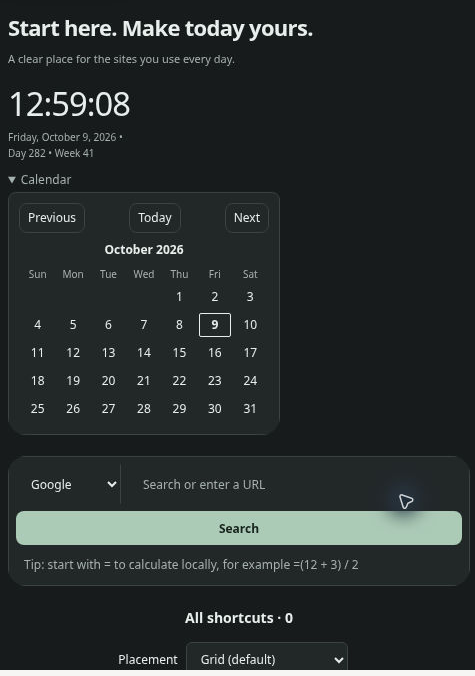
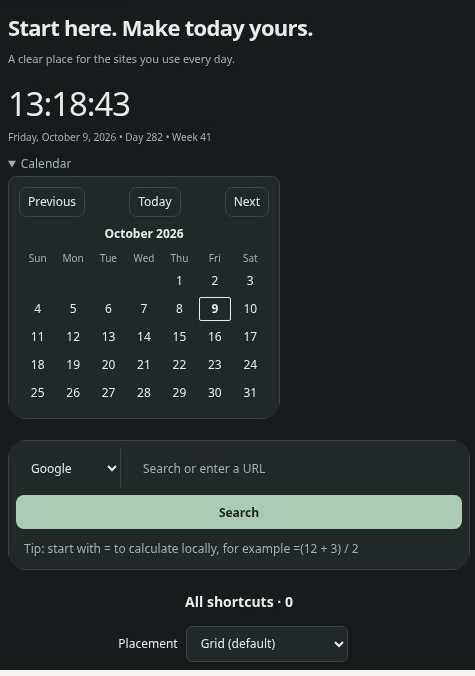
fix(clock): localize date order and expand narrow calendar dates

diff --git a/tests/localized-date-display.test.js b/tests/localized-date-display.test.js
@@ -1,0 +1,87 @@
+const test = require('node:test');
+const assert = require('node:assert/strict');
+const fs = require('node:fs');
+const vm = require('node:vm');
+const { createDocument } = require('./helpers/task-dom-model');
+const source = fs.readFileSync('newtab.js', 'utf8');
+const helper = fs.readFileSync('i18n.js', 'utf8');
+const catalogs = Object.fromEntries(['en', 'zh_CN'].map(locale => [locale,
+    JSON.parse(fs.readFileSync(`_locales/${locale}/messages.json`, 'utf8'))]));
+
+// Load the actual helper and emulate Chrome's positional $1 substitutions.
+function clock(locale, { loadHelper = true, messageMode = 'catalog' } = {}) {
+    const calls = [];
+    const context = {
+        document: createDocument(), window: { addEventListener() {} },
+        navigator: { language: 'en-US' }, console,
+        chrome: { i18n: {
+            getUILanguage: () => locale === 'zh_CN' ? 'en-US' : 'en-GB',
+            getMessage(key, substitutions = []) {
+                calls.push([key, Array.from(substitutions)]);
+                if (messageMode === 'empty') return '';
+                if (messageMode === 'echo') return key;
+                if (messageMode === 'throw') throw new Error('Unavailable');
+                if (key === '@@ui_locale') return 'en_US';
+                return (catalogs[locale]?.[key]?.message || '').replace(/\$(\d+)/g,
+                    (_, number) => substitutions[Number(number) - 1] ?? '');
+            }
+        } }
+    };
+    vm.createContext(context);
+    if (loadHelper) {
+        vm.runInContext(helper, context);
+        context.i18n = context.window.i18n;
+    }
+    vm.runInContext(source + '\nthis.ClockComponent = ClockComponent;', context);
+    return { component: new context.ClockComponent({ hour12: false, showSeconds: true }), calls };
+}
+
+test('shipped catalogs render exact complete CN and EN dates with string substitutions', () => {
+    for (const [locale, expected] of [
+        ['zh_CN', '2026年10月9日星期五 • 第282天 • 第41周'],
+        ['en', 'Friday, October 9, 2026 • Day 282 • Week 41']
+    ]) {
+        const { component, calls } = clock(locale);
+        assert.equal(component.formatDate(new Date(2026, 9, 9, 12)), expected);
+        assert.deepEqual(calls.filter(([key]) => ['dayOfYear', 'weekNumber'].includes(key)),
+            [['dayOfYear', ['282']], ['weekNumber', ['41']]]);
+    }
+});
+
+test('missing helper retains complete English counter fallbacks with the catalog date', () => {
+    const { component } = clock('zh_CN', { loadHelper: false });
+    assert.equal(component.formatDate(new Date(2026, 9, 9, 12)),
+        '2026年10月9日星期五 • Day 282 • Week 41');
+});
+
+test('empty, key-echo and unavailable messages use complete fallbacks and natural GB order', () => {
+    for (const messageMode of ['empty', 'echo', 'throw']) {
+        const { component } = clock('en', { messageMode });
+        assert.equal(component.formatDate(new Date(2026, 9, 9, 12)),
+            'Friday, 9 October 2026 • Day 282 • Week 41');
+    }
+});
+
+test('localized counters retain leap-day and ISO year-boundary facts without mutation', () => {
+    const cases = [
+        [2024, 2, 29, 60, 9], [2024, 12, 31, 366, 1],
+        [2021, 1, 1, 1, 53], [2026, 1, 1, 1, 1], [2026, 12, 31, 365, 53]
+    ];
+    for (const locale of ['en', 'zh_CN']) {
+        const { component } = clock(locale);
+        const config = { ...component.config };
+        for (const [year, month, day, ordinal, week] of cases) {
+            const date = new Date(year, month - 1, day, 12);
+            const stamp = date.getTime();
+            const dateText = date.toLocaleDateString(locale === 'en' ? 'en' : 'zh-CN', {
+                weekday: 'long', year: 'numeric', month: 'long', day: 'numeric'
+            });
+            const counters = locale === 'en' ? `Day ${ordinal} • Week ${week}` : `第${ordinal}天 • 第${week}周`;
+            const expected = `${dateText} • ${counters}`;
+            assert.equal(component.formatDate(date), expected);
+            assert.equal(component.formatDate(date), expected);
+            assert.equal(date.getTime(), stamp);
+            assert.deepEqual(component.config, config);
+        }
+    }
+});

diff --git a/tests/locale-defaults.test.js b/tests/locale-defaults.test.js
@@ -37,7 +37,7 @@ test('extension message locale wins when native browser UI and content locales d
     }, 'en-US');
     assert.equal(component.getDateLocale(), 'zh-CN');
     const date = new Date(2026, 9, 9, 12);
-    assert.ok(component.formatDate(date).startsWith(`${date.toLocaleDateString('zh-CN', { weekday: 'long' })}, ${date.toLocaleDateString('zh-CN', { month: 'long' })}`));
+    assert.ok(component.formatDate(date).startsWith(date.toLocaleDateString('zh-CN', { weekday: 'long', year: 'numeric', month: 'long', day: 'numeric' })));
     for (const getMessage of [() => '', () => '@@ui_locale', () => null, () => 'invalid_locale_tag_!', () => { throw new Error('unavailable'); }]) {
         assert.equal(clock({ getMessage, getUILanguage: () => 'en-GB' }).getDateLocale(), 'en-GB');
     }
@@ -52,7 +52,7 @@ test('explicit catalog locale aligns dates when both native locale indicators re
         }, 'en-US');
         assert.equal(component.getDateLocale(), expected);
         const date = new Date(2026, 9, 9, 12);
-        assert.ok(component.formatDate(date).startsWith(`${date.toLocaleDateString(expected, { weekday: 'long' })}, ${date.toLocaleDateString(expected, { month: 'long' })}`));
+        assert.ok(component.formatDate(date).startsWith(date.toLocaleDateString(expected, { weekday: 'long', year: 'numeric', month: 'long', day: 'numeric' })));
     }
     for (const value of ['', 'dateFormattingLocale', null, 'bad_locale', 42]) {
         assert.equal(clock({ getMessage: key => key === 'dateFormattingLocale' ? value : 'zh_CN', getUILanguage: () => 'en-US' }).getDateLocale(), 'zh-CN');
@@ -64,7 +64,7 @@ test('calendar calculations, repeated date display and clock options stay stable
     const en = clock({ getUILanguage: () => 'en-US' });
     for (const date of [new Date(2026, 9, 9, 12), new Date(2024, 1, 29, 12), new Date(2026, 0, 1, 12), new Date(2026, 11, 31, 12)]) {
         const stamp = date.getTime();
-        const expected = `${date.toLocaleDateString('zh-CN', { weekday: 'long' })}, ${date.toLocaleDateString('zh-CN', { month: 'long' })} ${date.getDate()}, ${date.getFullYear()} • Day ${en.getDayOfYear(date)} • Week ${en.getWeekNumber(date)}`;
+        const expected = `${date.toLocaleDateString('zh-CN', { weekday: 'long', year: 'numeric', month: 'long', day: 'numeric' })} • Day ${en.getDayOfYear(date)} • Week ${en.getWeekNumber(date)}`;
         assert.equal(cn.formatDate(date), expected);
         assert.equal(cn.formatDate(date), expected);
         assert.equal(date.getTime(), stamp);

diff --git a/newtab.js b/newtab.js
@@ -1529,18 +1529,15 @@ class ClockComponent {
      * @returns {string} - Formatted date string
      */
     formatDate(date) {
-        const locale = this.getDateLocale();
-        const dayOfWeek = date.toLocaleDateString(locale, { weekday: 'long' });
-        const month = date.toLocaleDateString(locale, { month: 'long' });
-        const day = date.getDate();
-        const year = date.getFullYear();
-
+        const fullDate = date.toLocaleDateString(this.getDateLocale(), {
+            weekday: 'long', year: 'numeric', month: 'long', day: 'numeric'
+        });
         const dayOfYear = this.getDayOfYear(date);
         const weekNumber = this.getWeekNumber(date);
 
-        const dayLabel = (window.i18n && i18n.t('dayOfYear')) || 'Day';
-        const weekLabel = (window.i18n && i18n.t('weekNumber')) || 'Week';
-        return `${dayOfWeek}, ${month} ${day}, ${year} • ${dayLabel} ${dayOfYear} • ${weekLabel} ${weekNumber}`;
+        const dayLabel = this.worldClockText('dayOfYear', `Day ${dayOfYear}`, [String(dayOfYear)]);
+        const weekLabel = this.worldClockText('weekNumber', `Week ${weekNumber}`, [String(weekNumber)]);
+        return `${fullDate} • ${dayLabel} • ${weekLabel}`;
     }
 
     /**

diff --git a/tests/month-calendar-integration.test.js b/tests/month-calendar-integration.test.js
@@ -150,6 +150,16 @@ test('runtime inventory/script order and narrow open-only layout are explicit', 
     assert.match(css, /\.month-calendar\[open\] \{ width: 17rem;/); assert.match(css, /aria-current="date".*outline:/);
 });
 
+test('expanded narrow calendar lets the date use its own row without changing collapsed geometry', () => {
+    const css = read('local-month-calendar.css');
+    const [base, narrow] = css.split('@media (max-width: 600px) {');
+    assert(narrow, 'expanded responsive rules exist');
+    assert.doesNotMatch(base, /\.date-display\s*\{/);
+    assert.match(narrow, /:root\[data-dashboard-template\] #dashboard \.dashboard-header:has\(\.month-calendar\[open\]\) \.date-display \{ max-width: 100%; \}/);
+    assert.equal((css.match(/\.date-display\s*\{/g) || []).length, 1);
+    assert.match(read('dashboard-templates.css'), /\.date-display \{ font-size: 10px; max-width: 135px; \}/);
+});
+
 test('detached host does not navigate, render or announce', () => {
     const h = model(); h.open(); const { clock, view } = h;
     const rows = view.body.children, caption = view.caption.textContent, month = clock.calendarMonth;

diff --git a/local-month-calendar.css b/local-month-calendar.css
@@ -20,5 +20,6 @@
   :root[data-dashboard-template] #dashboard .dashboard-header:has(.month-calendar[open]) .template-intro { grid-column: 1; grid-row: 2; }
   :root[data-dashboard-template] #dashboard .dashboard-header:has(.month-calendar[open]) #clock-container { grid-column: 1; grid-row: 3; justify-self: start; text-align: start; }
   :root[data-dashboard-template] #dashboard .dashboard-header:has(.month-calendar[open]) .clock-display { align-items: flex-start; }
+  :root[data-dashboard-template] #dashboard .dashboard-header:has(.month-calendar[open]) .date-display { max-width: 100%; }
   :root[data-dashboard-template] #dashboard .month-calendar[open] > summary { margin-inline-start: 0; }
 }

diff --git a/docs/localized-date-validation.md b/docs/localized-date-validation.md
@@ -1,0 +1,46 @@
+# Localized clock date validation
+
+The main date line now formats its complete date with the existing catalog-first locale selection and uses the existing day/week keys as complete substituted messages. Day and ISO week calculations, clock time, quote placeholders, configuration and storage are unchanged.
+
+Verified exact output for 9 October 2026:
+- Chinese: `2026年10月9日星期五 • 第282天 • 第41周`
+- Shipped English catalog: `Friday, October 9, 2026 • Day 282 • Week 41`
+
+The regression harness loads the actual `i18n.js` and locale catalogs, emulates Chrome positional message substitution, and verifies string substitutions. It covers absent helpers, empty/key-echo/throwing message APIs, leap day, ISO year boundaries, repeated calls, input-date immutability and unchanged configuration. Existing locale-priority, clock-time, quote/storage and four-time-zone calendar tests also pass. When the catalog is unavailable and the UI locale is en-GB, native date ordering is intentionally `Friday, 9 October 2026`; no artificial US-order preservation branch is needed.
+
+Validation on the isolated current-source snapshot:
+- Initial isolated `node --test tests/*.test.js`: 495 passed, zero failures/skips
+- `python3 -m unittest discover -s tests -p '*_test.py'`: 19 passed
+- `node --check` for root, shared, test/helper and asset JavaScript: passed
+- Manifest and all locale JSON parsing: passed
+- Patch whitespace and exact apply/reconstruction checks: passed
+
+## Narrow expanded-calendar follow-up
+
+The first native Chinese narrow test found a dangling `第` at a line boundary:
+the expanded calendar had moved the clock to its own row, but the date retained
+the old 135px cap. One rule now allows `max-width: 100%` only inside the existing
+≤600px, open-calendar header selector. Collapsed and wide rules, date text and
+DOM remain unchanged. The original template cap remains in place for other
+states. A source regression locks down this scope. Integrated verification:
+496 Node tests and 19 Python packaging tests passed.
+
+## Native acceptance — 2026-10-09
+
+Normal-sandbox Chrome for Testing 155.0.8059.39 on cloud Linux verified the exact
+Chinese and English strings above through the real Chrome message API. No
+literal `$1` appeared. The Chinese month calendar remained Monday-first and
+highlighted day 9. At an actual 514-pixel native outer width, the corrected
+expanded Chinese and English dates each fit on one line without clipping or
+overlap. Chinese collapsed → open → closed returned to the original compact
+geometry. Wide rendering remained unchanged. Pointer-free Chinese light-wide
+and English dark-narrow frames now supply the
+[current README crops](screenshots/month-calendar/capture-metadata.json).
+
+Both initial and final native snapshot hashes were checked. Final V2 includes
+60 runtime files and matches ZIP SHA256
[1 lines of base64/hex data omitted]
+Owned browser windows were closed normally. Native checks were limited to
+these date/calendar states, not a repetition of every earlier calendar flow,
+all templates, screen readers, IME, clock changes or other operating systems.
+Window dimensions are not measured CSS viewport dimensions.

diff --git a/docs/package-validation.md b/docs/package-validation.md
@@ -128,3 +128,30 @@ coverage where stated. No all-template/locale/IME/assistive-technology guarantee
 live Drive/Sync validation, native macOS/Windows acceptance or store submission
 is implied. Manifest version remains 1.1.5. Preserve the existing installation
 directory and make separate private-module backups before replacing files.
+
+
+## Offline calendar and localized dates — 2026-10-09
+
+This checkpoint adds the offline month calendar published at `4999964` and the
+separate localized clock-date correction recorded with this section. Its
+canonical runtime ZIP has 60 files, 1,216,532 source bytes and 1,223,794 archive
+bytes. SHA256:
[1 lines of base64/hex data omitted]
+It can be identified by this content hash regardless of download filename.
+Integrated verification passed 496 Node tests and 19 Python packaging tests.
+
+The exact candidate ZIP was verified, extracted to a fresh snapshot and loaded
+by normal-sandbox official Chrome for Testing 155.0.8059.39 on cloud Linux.
+All 60 file hashes matched the final source. Calendar navigation, focus,
+visibility and bounded template checks were performed on the preceding
+calendar snapshot; the final narrow-width/localization-only follow-up checked
+real Chinese/English date substitution, Chinese Monday-first display,
+514px expanded-date fit, collapsed restoration and unchanged wide geometry.
+See [calendar scope](month-calendar-validation.md) and
+[localized date acceptance](localized-date-validation.md) for the distinct
+verification stages and [exact screenshot crops](screenshots/month-calendar/capture-metadata.json).
+
+No full rerun of every earlier feature, all-template/locale/zoom matrix, live
+Sync/Drive test, screen-reader validation or native macOS/Windows acceptance is
+implied. Native windows could not be reduced below 510px, so 320/400px layout
+remains unverified. Manifest version stays 1.1.5; no store submission occurred.
